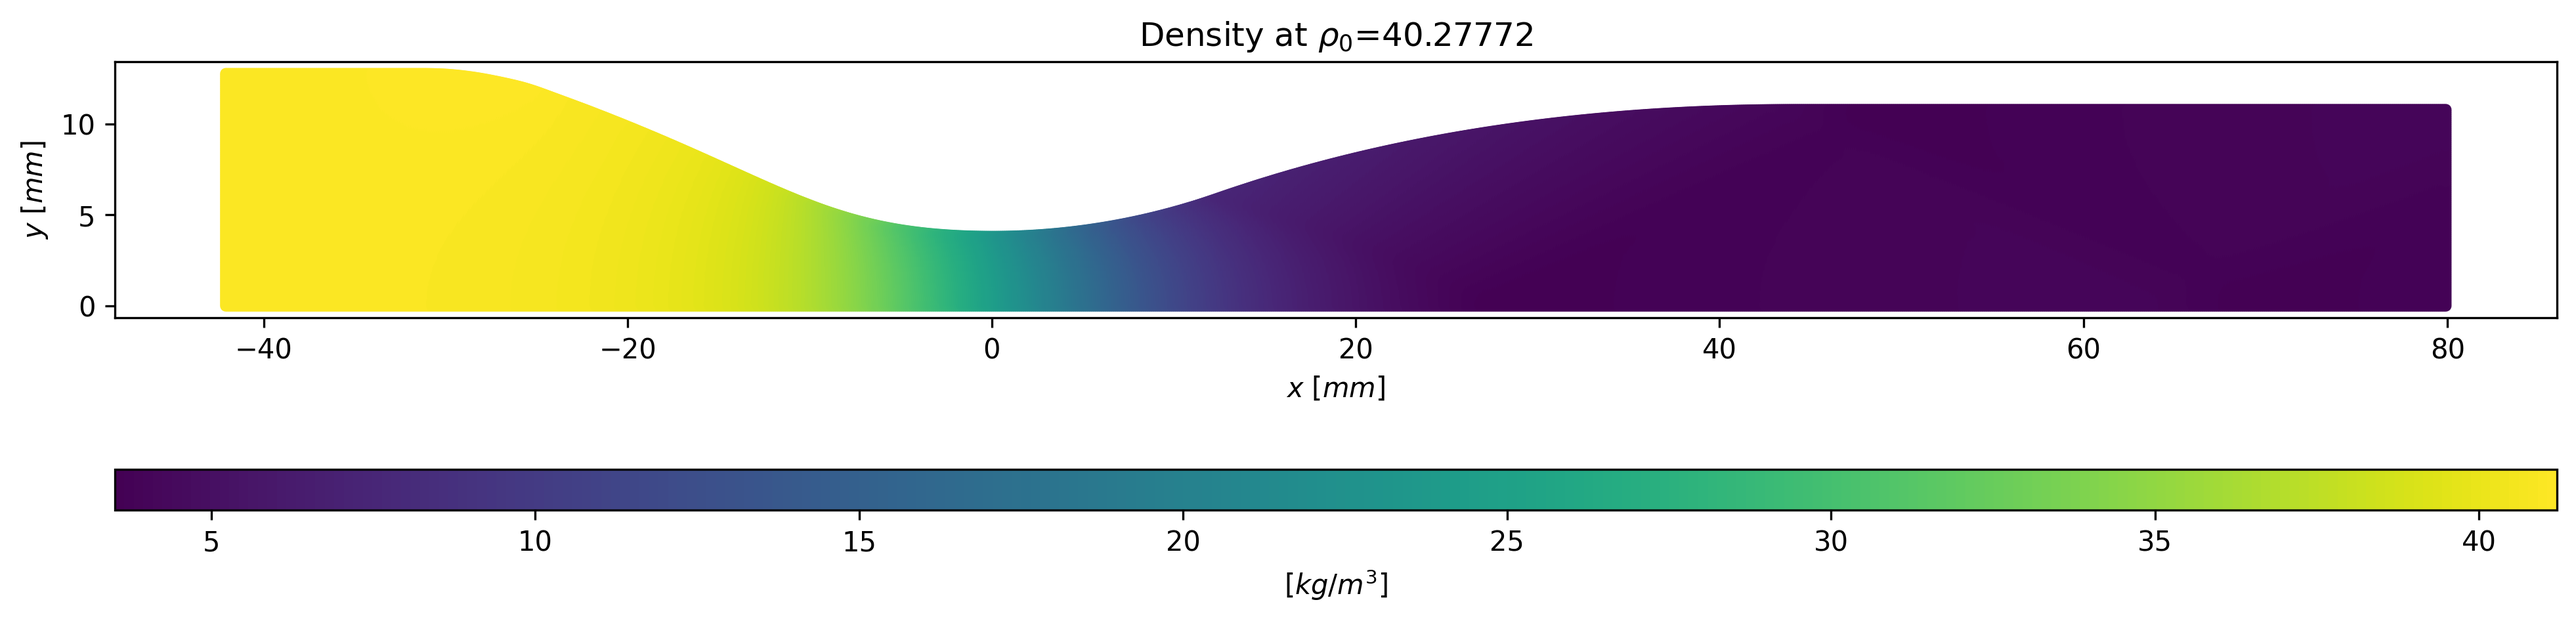
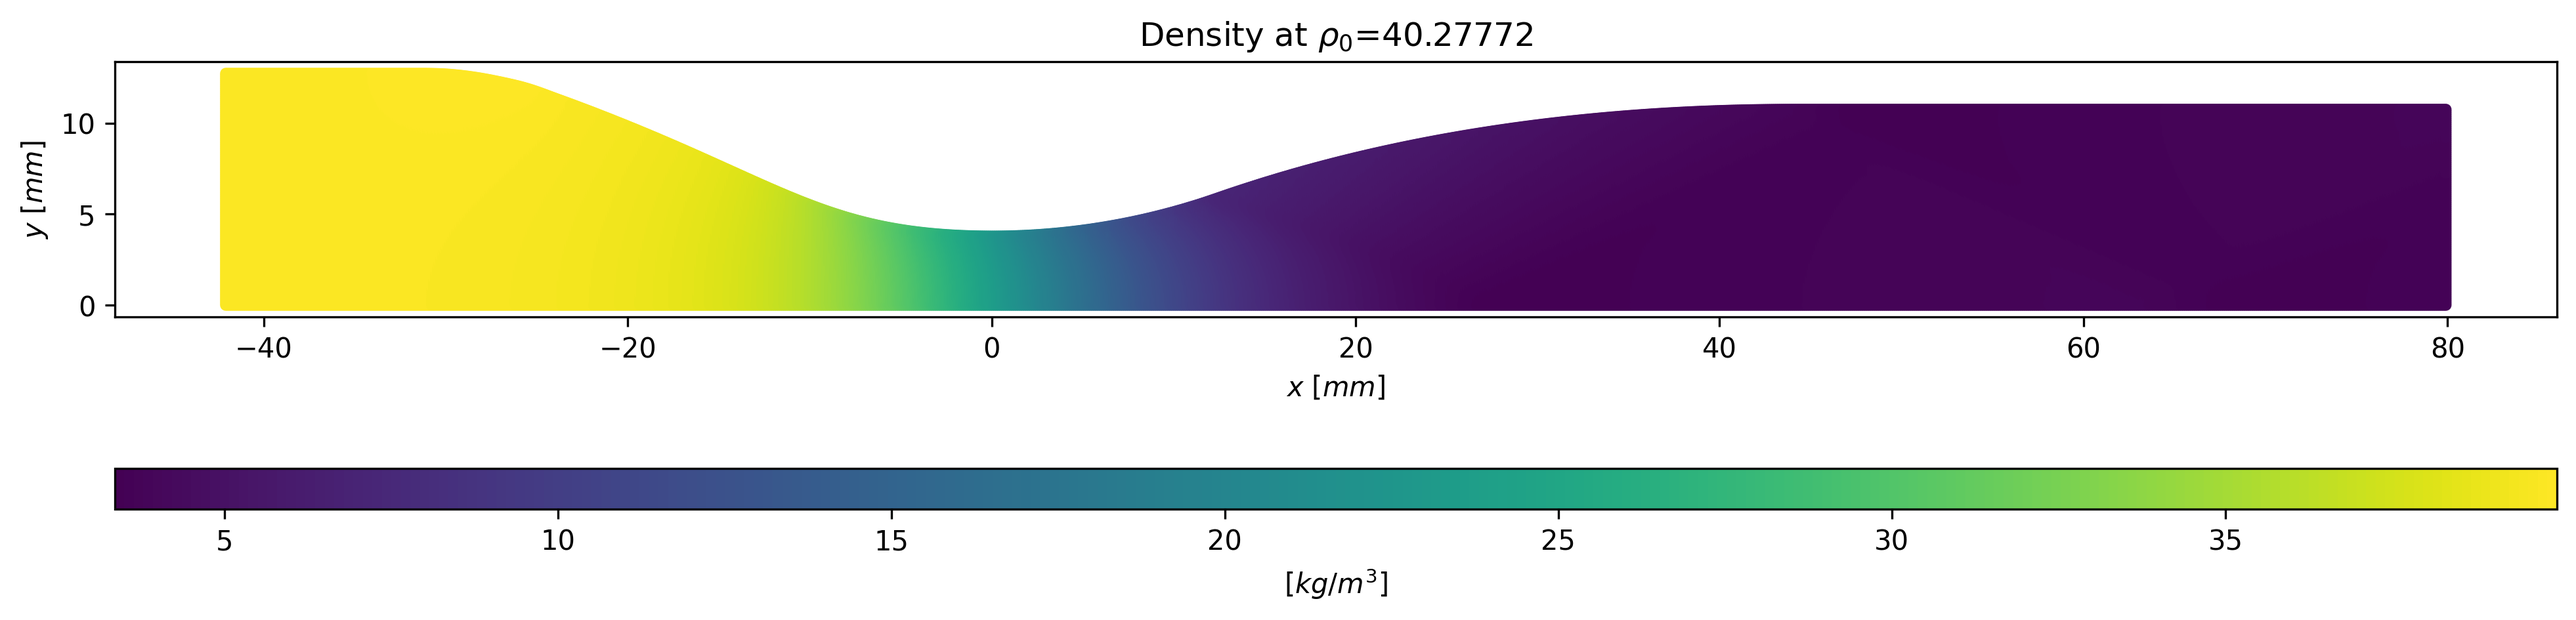
generated cfd graphs

diff --git a/d02_cfd_comparisons.py b/d02_cfd_comparisons.py
@@ -103,7 +103,7 @@ v = np.load("v_HS.npy") # V is upwards, U is rightwards
 
 # x, y, density, density_prime = get_cfd_values("Wavelet_noise_experiments/220/BOS_12_11_1/flow_MUSCL.vtu")
 
-x, y, density, density_prime = get_cfd_values_shifted("Wavelet_noise_experiments/252/BOS_12_11_1/flow_MUSCL.vtu")
+x, y, density, density_prime = get_cfd_values_shifted("Wavelet_noise_experiments/252/BOS_12_11_7/flow_MUSCL.vtu")
 
 new_x, line = get_straight_values(x, y, density_prime)
 
@@ -125,13 +125,13 @@ sc = ax.scatter(x, y, c=density, s=10)
 
 ax.set_xlabel(r"$x$ [$mm$]")
 ax.set_ylabel(r"$y$ [$mm$]")
-ax.set_title("Density at " + fr'$\rho_0$={round(rho0[0], 5)}')
+ax.set_title("Density at " + fr'$\rho_0$={round(rho0[6], 5)}')
 ax.set_aspect('equal', adjustable='box')
 
 cbar = fig.colorbar(sc, ax=ax, orientation='horizontal', pad=0.25, fraction=0.1, aspect=60)
 cbar.set_label(r"[$kg/m^3$]")
 
-fig.savefig("FINAL PLOTS/Density Gradients/CFD-density_BOS_12_11_1.png", dpi=300, bbox_inches="tight")
+fig.savefig("FINAL PLOTS/Density Gradients/CFD-density_BOS_12_11_7.png", dpi=300, bbox_inches="tight")
 plt.show()
 plt.close(fig)
 
@@ -141,24 +141,24 @@ sc = ax.scatter(x, y, c=density_prime, s=10)
 
 ax.set_xlabel(r"$x$ [$mm$]")
 ax.set_ylabel(r"$y$ [$mm$]")
-ax.set_title("Density Gradient at " + fr'$\rho_0$={round(rho0[0], 5)}')
+ax.set_title("Density Gradient at " + fr'$\rho_0$={round(rho0[6], 5)}')
 ax.set_aspect('equal', adjustable='box')
 
 cbar = fig.colorbar(sc, ax=ax, orientation='horizontal', pad=0.25, fraction=0.1, aspect=60)
 cbar.set_label(r"[$kg/m^4$]")
 
-fig.savefig("FINAL PLOTS/Density Gradients/CFD-densitygrad_BOS_12_11_1.png", dpi=300, bbox_inches="tight")
+fig.savefig("FINAL PLOTS/Density Gradients/CFD-densitygrad_BOS_12_11_7.png", dpi=300, bbox_inches="tight")
 plt.show()
 plt.close(fig)
 
 # Density Gradient at y0
 # plt.plot(x_common, all_curves[i], label=f'rho0={rho0[i]}')
 # plt.scatter(new_x, line, s=10, label=f'rho0=Add')
-plt.plot(new_x, (np.array(line)/rho0[0]), label=fr'$\rho_0$={round(rho0[0], 5)}')
+plt.plot(new_x, (np.array(line)/rho0[6]), label=fr'$\rho_0$={round(rho0[6], 5)}')
 plt.xlabel(r'x')
 plt.ylabel(r'$\frac{d\rho}{dx}$')
 plt.title(r'$\frac{d\rho}{dx}$ vs x at $y=0$')
 plt.legend()
 plt.grid(True)
-plt.savefig("FINAL PLOTS/Midline Density Gradient/CFD-densitygrad_y0_BOS_12_11_1.png", dpi=300)
+plt.savefig("FINAL PLOTS/Midline Density Gradient/CFD-densitygrad_y0_BOS_12_11_7.png", dpi=300)
 plt.show()
